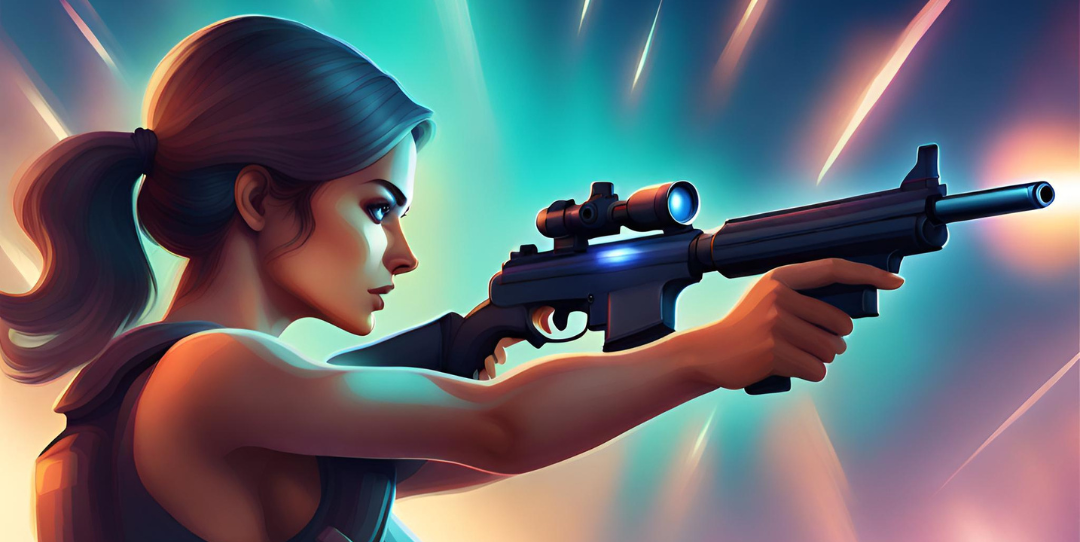
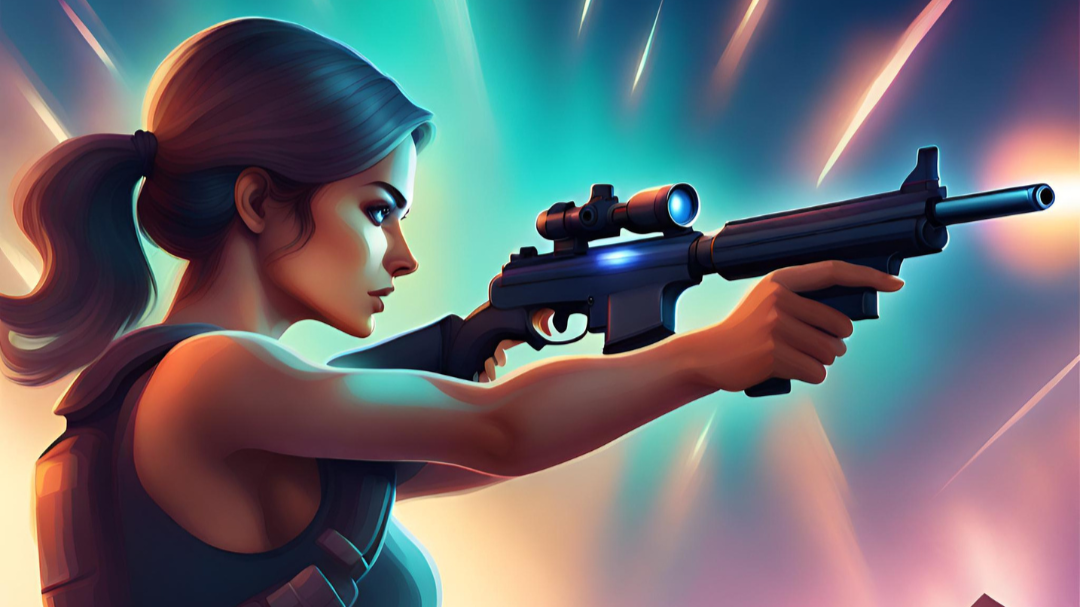
resize images for carousel on homepage

diff --git a/src/pages/HomePage.jsx b/src/pages/HomePage.jsx
@@ -52,9 +52,9 @@ function HomePage() {
           </Link>
         </Carousel.Item>
 
-        <Carousel.Item>
+        <Carousel.Item style={{ maxHeight: '80vh' }}>
           <Link to={`/games/sort/Puzzle`}>
-            <img src={puzzle} style={{ width: '100vw', height: '80vh' }} alt="puzzle" />
+            <img src={puzzle} style={{ width: '100%', height: '100%', objectFit: 'cover' }} alt="puzzle" />
             <Carousel.Caption>
               <h3>Puzzle</h3>
               <p>
@@ -88,9 +88,9 @@ function HomePage() {
           </Link>
         </Carousel.Item>
 
-        <Carousel.Item>
+        <Carousel.Item style={{ maxHeight: '80vh' }}>
           <Link to={`/games/sort/Sports`}>
-            <img src={sports} style={{ width: '100vw', height: '80vh' }} alt="sports" />
+            <img src={sports} style={{ width: '100%', height: '100%', objectFit: 'cover' }} alt="sports" />
             <Carousel.Caption>
               <h3>Sports & Racing</h3>
               <p>
